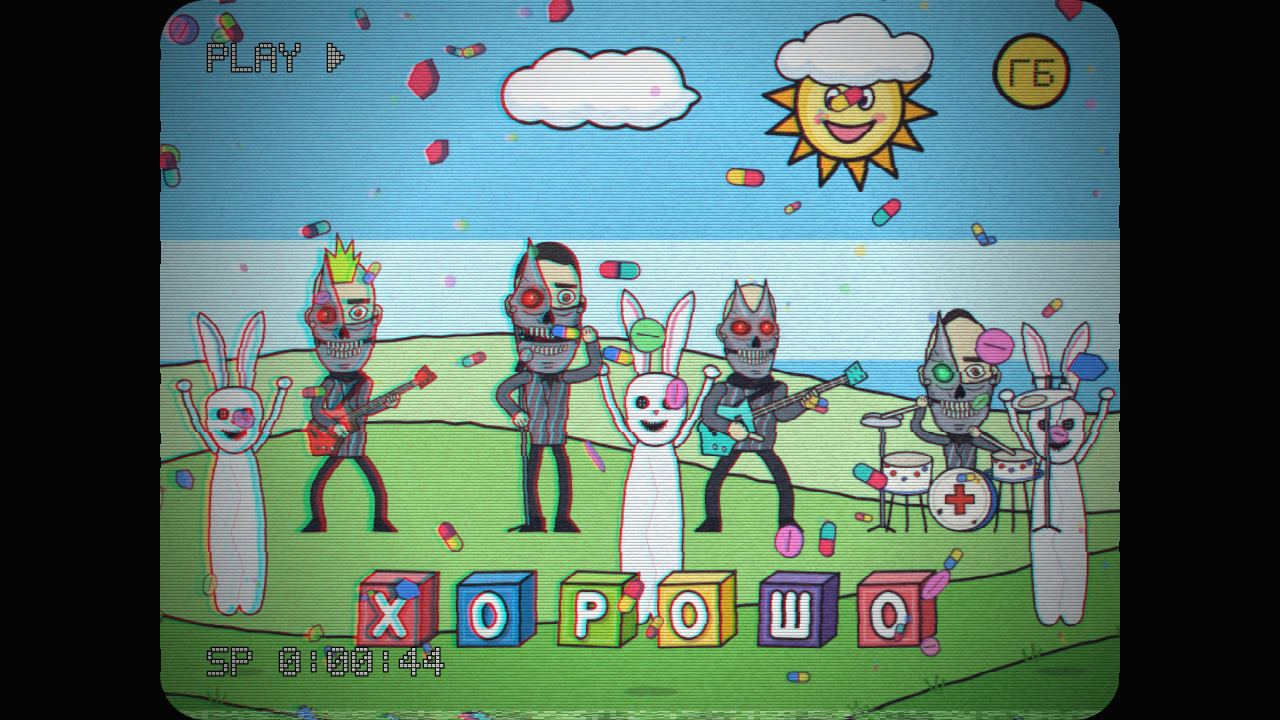
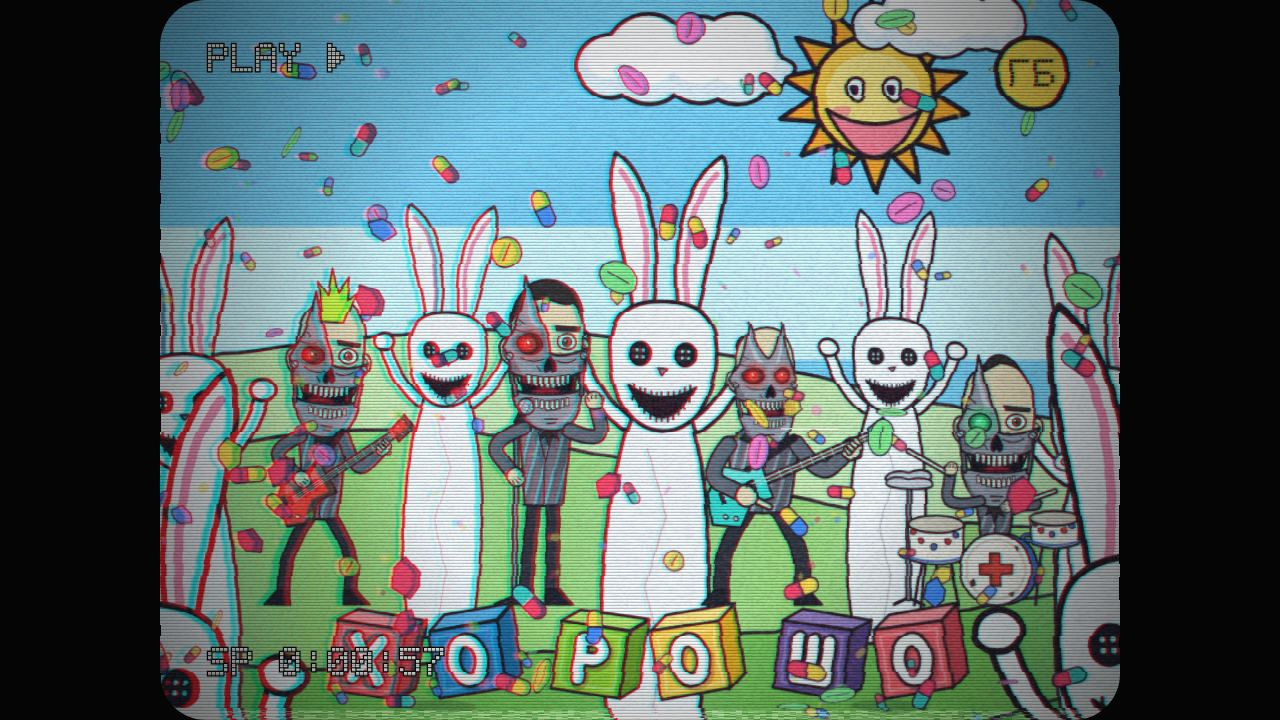
feat(vova): the chorus meadow goes wrong as it goes on, and hops with weight
Through the chorus, a pulse at a time, the sun's grin widens past its
face and its eyes turn to camera, the band's jaws hang open, bunnies
arrive from three to eight with the last three closing in from the
front, button-eyed and grinning, the serotonin thickens and the camera
creeps in. The players land squashed on each half-time pulse, crouch to
spring, and trail their hands and instruments. New stills replace the
first take's, which stay as take-1.

Claude-Session: https://claude.ai/code/session_01MZoAKAhoBGMGL3JbRrRemY

diff --git a/src/clip/widgets/meadow-party/ui/meadow-party.ts b/src/clip/widgets/meadow-party/ui/meadow-party.ts
@@ -1,5 +1,12 @@
 import type { Pen } from '@/clip/shared/ink';
-import { jaw, KICKS, pulse, punch } from '@/clip/shared/score';
+import {
+  jaw,
+  KICKS,
+  pulse,
+  punch,
+  sectionAt,
+  through,
+} from '@/clip/shared/score';
 import { broadcast, SCREEN } from '@/clip/shared/tape';
 import type { Drawing } from '@/clip/shared/timeline';
 import { bunny } from '@/clip/entities/bunny';
@@ -32,27 +39,91 @@ const BAND: ReadonlyArray<readonly [Role, number, number]> = [
   ['bass', 590, 2000],
   ['drums', 800, 3000],
 ];
-const BUNNIES: ReadonlyArray<readonly [number, number]> = [
-  [80, 0.4],
-  [490, 0.44],
-  [900, 0.4],
+// The bunnies by when they have arrived, 0 to 1 through the chorus: x, the
+// floor they stand on, their size. The first five dance behind the band, the
+// last three close in from the front, nearer each time.
+type Arrival = readonly [x: number, y: number, scale: number, from: number];
+const BEHIND: readonly Arrival[] = [
+  [80, 470, 0.4, 0],
+  [490, 440, 0.44, 0],
+  [900, 470, 0.4, 0],
+  [300, 420, 0.32, 0.2],
+  [700, 420, 0.32, 0.35],
 ];
+const IN_FRONT: readonly Arrival[] = [
+  [20, 760, 0.7, 0.5],
+  [950, 770, 0.75, 0.65],
+  [130, 900, 1, 0.85],
+];
+// The share of a hop spent on the ground: the landing's squash, then the
+// crouch to spring, both in the knees.
+const GROUNDED = 0.32;
+// How deep the knees bend and how far the hands lag, in the puppet's units.
+const KNEES = 36;
+const LAG = 26;
 const WORD = ['Х', 'О', 'Р', 'О', 'Ш', 'О'] as const;
 
-/**
- * How high a hopper is, 0 to 1, `fraction` through the half-time pulse: on
- * the ground at each hit, at the top of the arc between.
- */
-const hopHeight = (fraction: number): number => Math.sin(Math.PI * fraction);
+type Hop = { height: number; dip: number; trail: number };
 
-/** The party itself, in the screen's units, the whole cast landing on each pulse. */
+/**
+ * A player's hop `fraction` through the half-time pulse: it lands squashed on
+ * the hit, rises, crouches again to spring, and is in the air for the rest,
+ * its hands trailing low on the way up and flung high on the way down.
+ */
+function hopOf(fraction: number): Hop {
+  if (fraction < GROUNDED) {
+    const u = fraction / GROUNDED;
+    return {
+      height: 0,
+      dip: KNEES * (0.55 + 0.45 * Math.cos(2 * Math.PI * u)),
+      trail: LAG * (0.7 - 1.7 * (1 - u) ** 2),
+    };
+  }
+  const u = (fraction - GROUNDED) / (1 - GROUNDED);
+  return {
+    height: Math.sin(Math.PI * u),
+    dip: -6 * Math.sin(Math.PI * u),
+    trail: LAG * (0.85 * Math.cos(Math.PI * u) - 0.15),
+  };
+}
+
+function bunnies(
+  pen: Pen,
+  arrivals: readonly Arrival[],
+  fraction: number,
+  wrong: number,
+  seed: number,
+): void {
+  for (const [n, [x, y, scale, from]] of arrivals.entries()) {
+    if (wrong < from) continue;
+    bunny(pen, {
+      x,
+      y,
+      scale,
+      nearness: 0.5 + 0.2 * wrong,
+      grin: 0.4 + 0.6 * wrong,
+      eyes: 'button',
+      hop: fraction,
+      swaying: 1,
+      seed: seed + n,
+    });
+  }
+}
+
+/**
+ * The party itself, in the screen's units, the whole cast landing on each
+ * pulse. It goes wrong through the chorus a pulse at a time: grins widen past
+ * their faces, jaws hang, more bunnies arrive, nearer, and the camera creeps in.
+ */
 function party(pen: Pen, framing: Framing): void {
   const { ctx, playhead: t } = pen;
-  const { index, fraction } = pulse(t);
+  const { index, fraction, seconds } = pulse(t);
   const beats = 2 * (index + fraction);
-  const lift = hopHeight(fraction);
+  const { height: lift, dip, trail } = hopOf(fraction);
   const kick = punch(KICKS, t);
-  const [cx, cy, zoom] = CAMERAS[framing];
+  const [cx, cy, framed] = CAMERAS[framing];
+  const wrong = through(sectionAt(t), t - fraction * seconds);
+  const zoom = framed * (1 + 0.14 * wrong);
 
   ctx.fillStyle = PARTY_PALETTE.sky;
   ctx.fillRect(0, 0, SCREEN.width, SCREEN.height);
@@ -67,32 +138,25 @@ function party(pen: Pen, framing: Framing): void {
     x: 690,
     y: 130 - 26 * lift,
     scale: 1.1,
-    smile: 1,
+    smile: 1 + 1.4 * wrong,
     bob: 0,
-    gaze: [-0.6, 0.5],
+    gaze: [-0.6 * (1 - wrong), 0.5 * (1 - wrong)],
     seed: 11,
   });
   cloud(pen, { x: 180, y: 110, scale: 0.9, drift: 6, seed: 3 });
   cloud(pen, { x: 520, y: 70, scale: 0.7, drift: 4, seed: 4 });
   rollingHills(pen, { x: -200, y: 260, width: 1360, height: 560, seed: 5 });
 
-  for (const [n, [x, scale]] of BUNNIES.entries()) {
-    bunny(pen, {
-      x,
-      y: 470,
-      scale,
-      nearness: 0.5,
-      hop: fraction,
-      swaying: 1,
-      seed: 40 + n,
-    });
-  }
+  bunnies(pen, BEHIND, fraction, wrong, 40);
+  const gape = 0.15 + 0.75 * wrong;
   for (const [role, x, mark] of BAND) {
     player(pen, role, {
       beats,
-      jaw: role === 'vocal' ? jaw(t) : 0.15,
+      jaw: role === 'vocal' ? Math.max(jaw(t), gape) : gape,
       place: { x, y: GROUND - 70 * lift, scale: 0.38 },
-      look: { brow: -1, lid: 0, gaze: [0, 0.2] },
+      carriage: { dip },
+      trail,
+      look: { brow: -1, lid: 0, gaze: [0, 0.2 * (1 - wrong)] },
       mark,
     });
   }
@@ -107,11 +171,12 @@ function party(pen: Pen, framing: Framing): void {
       seed: 60 + n,
     });
   }
+  bunnies(pen, IN_FRONT, fraction, wrong, 50);
   ctx.restore();
 
   serotoninFall(pen, {
     ...SCREEN,
-    density: 0.45,
+    density: 0.4 + 0.6 * wrong,
     wind: 0.1,
     period: 9,
     seed: 7,
